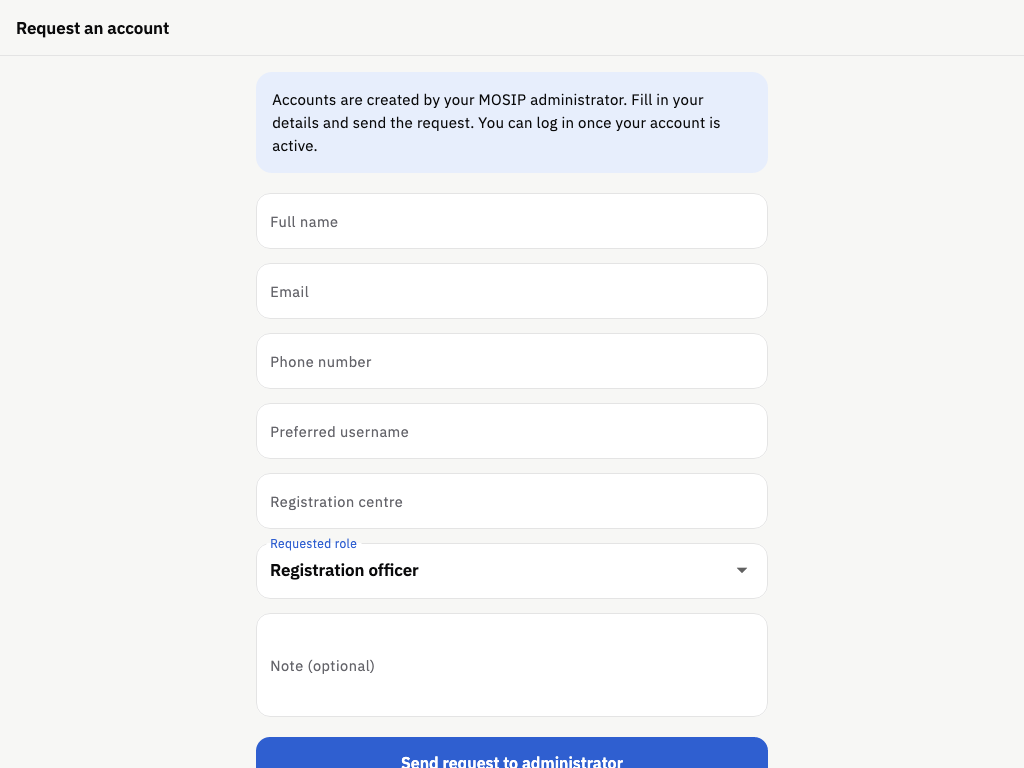
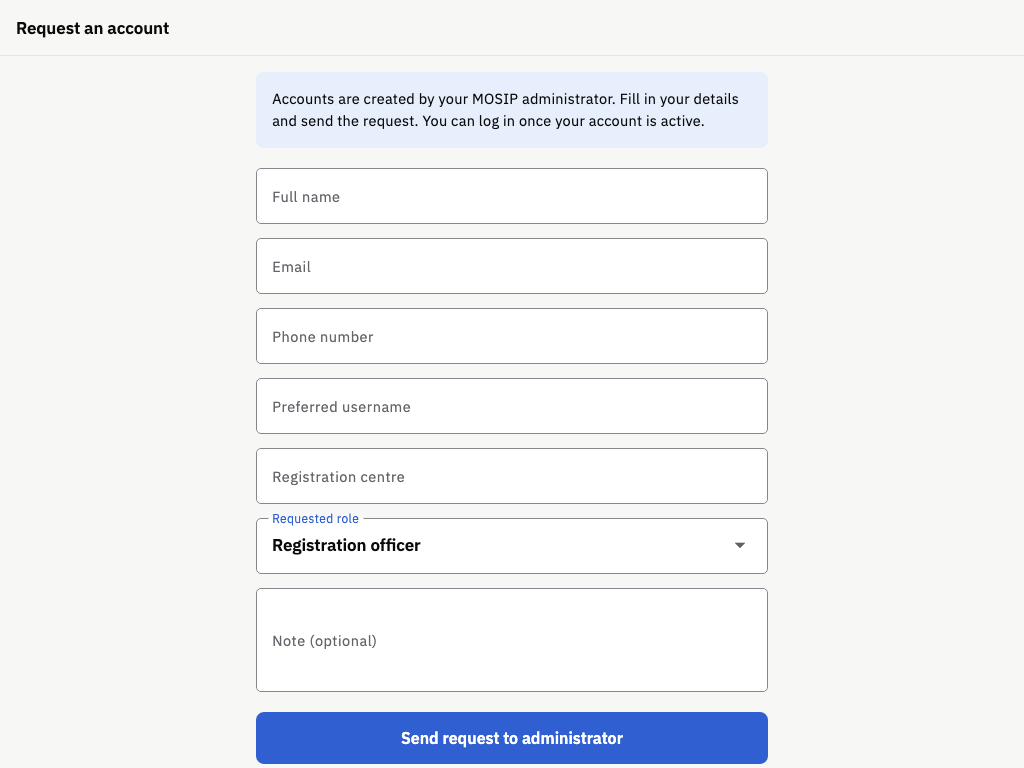
feat(ui): restyle signup to match login
Fields use the theme's 3:1 outline, fill and padding; demo-account notice
on warn tokens; buttons and type on the scale. Validation and request flow
unchanged.

diff --git a/lib/ui/signup/signup_page.dart b/lib/ui/signup/signup_page.dart
@@ -211,10 +211,10 @@ class _SignupPageState extends State<SignupPage> {
                         padding: const EdgeInsets.all(16),
                         decoration: BoxDecoration(
                             color: RegistrationTheme.softBlue,
-                            borderRadius: BorderRadius.circular(16)),
+                            borderRadius: BorderRadius.circular(RegistrationTheme.rLg)),
                         child: Text(l.signup_intro,
                             style: const TextStyle(
-                                fontSize: 15,
+                                fontSize: RegistrationTheme.fsSmall,
                                 height: 1.5,
                                 color: RegistrationTheme.ink))),
                     const SizedBox(height: 20),
@@ -277,12 +277,12 @@ class _SignupPageState extends State<SignupPage> {
                                 backgroundColor: appSolidPrimary,
                                 foregroundColor: appWhite,
                                 shape: RoundedRectangleBorder(
-                                    borderRadius: BorderRadius.circular(14)),
+                                    borderRadius: BorderRadius.circular(RegistrationTheme.rLg)),
                               ),
                               onPressed: _busy ? null : _sendRequest,
                               child: Text(l.signup_send,
                                   style: const TextStyle(
-                                      fontSize: 16,
+                                      fontSize: RegistrationTheme.fsBody,
                                       fontWeight: FontWeight.w600)),
                             ),
                           ),
@@ -306,9 +306,9 @@ class _SignupPageState extends State<SignupPage> {
       key: const ValueKey<String>('demo-section'),
       padding: const EdgeInsets.all(16),
       decoration: BoxDecoration(
-        color: const Color(0xFFFFFAEF),
-        border: Border.all(color: const Color(0xFFEEDDB5)),
-        borderRadius: BorderRadius.circular(20),
+        color: RegistrationTheme.warnTint,
+        border: Border.all(color: RegistrationTheme.warnLine),
+        borderRadius: BorderRadius.circular(RegistrationTheme.rLg),
       ),
       child: Form(
         key: _demoForm,
@@ -316,12 +316,12 @@ class _SignupPageState extends State<SignupPage> {
           crossAxisAlignment: CrossAxisAlignment.stretch,
           children: <Widget>[
             Row(children: <Widget>[
-              const Icon(Icons.science_outlined, color: Color(0xFF8A6100)),
+              const Icon(Icons.science_outlined, color: RegistrationTheme.warn),
               const SizedBox(width: 8),
               Expanded(
                 child: Text(l.signup_demo_title,
                     style: const TextStyle(
-                        fontSize: 16,
+                        fontSize: RegistrationTheme.fsBody,
                         fontWeight: FontWeight.w600,
                         color: appBlack)),
               ),
@@ -329,7 +329,7 @@ class _SignupPageState extends State<SignupPage> {
             const SizedBox(height: 8),
             Text(l.signup_demo_body,
                 style: const TextStyle(
-                    fontSize: 14, height: 1.4, color: appBlack)),
+                    fontSize: RegistrationTheme.fsSmall, height: 1.4, color: appBlack)),
             const SizedBox(height: 14),
             _field(_password, l.signup_password,
                 obscure: _obscure,
@@ -354,12 +354,12 @@ class _SignupPageState extends State<SignupPage> {
                   foregroundColor: appSolidPrimary,
                   side: const BorderSide(color: appSolidPrimary),
                   shape: RoundedRectangleBorder(
-                      borderRadius: BorderRadius.circular(14)),
+                      borderRadius: BorderRadius.circular(RegistrationTheme.rLg)),
                 ),
                 onPressed: _busy ? null : _createDemo,
                 child: Text(l.signup_create_demo,
                     style: const TextStyle(
-                        fontSize: 16, fontWeight: FontWeight.w600)),
+                        fontSize: RegistrationTheme.fsBody, fontWeight: FontWeight.w600)),
               ),
             ),
           ],
@@ -369,17 +369,10 @@ class _SignupPageState extends State<SignupPage> {
   }
 
   InputDecoration _decoration(String label, {Widget? suffix}) =>
+      // Borders, fill and padding come from the theme (3:1 field outline).
       InputDecoration(
         labelText: label,
         suffixIcon: suffix,
-        border: OutlineInputBorder(borderRadius: BorderRadius.circular(14)),
-        enabledBorder: OutlineInputBorder(
-            borderRadius: BorderRadius.circular(14),
-            borderSide: const BorderSide(color: RegistrationTheme.line)),
-        filled: true,
-        fillColor: Colors.white,
-        contentPadding:
-            const EdgeInsets.symmetric(horizontal: 14, vertical: 16),
       );
 
   Widget _field(
